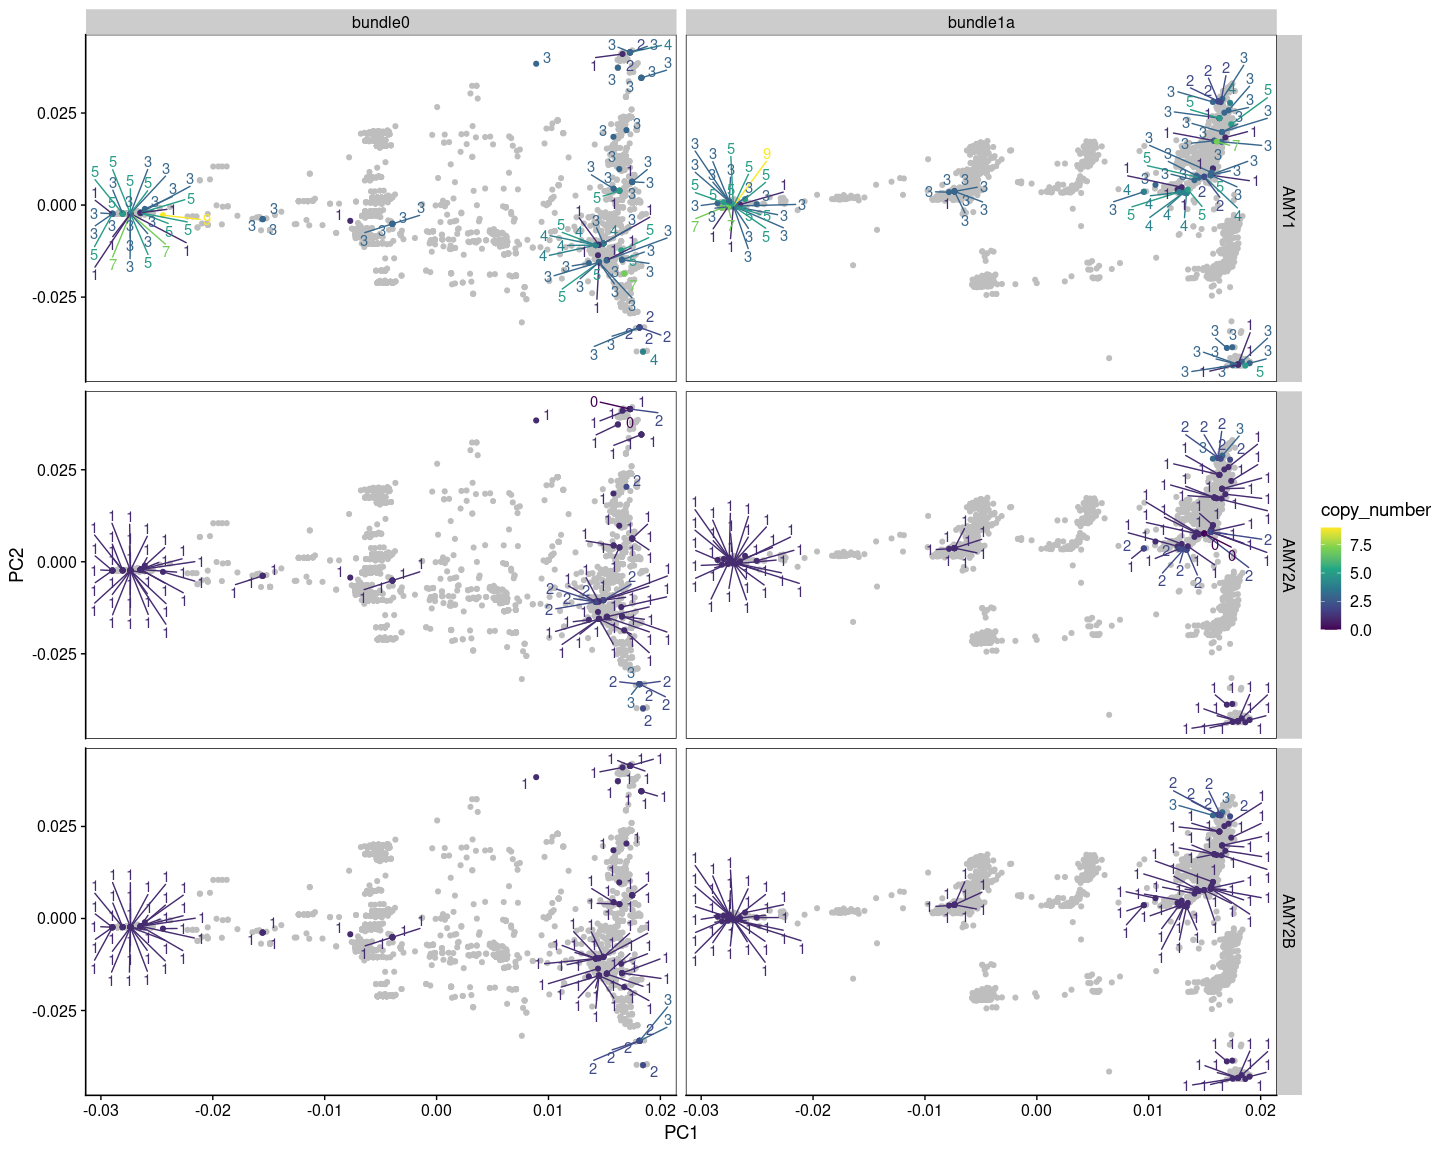
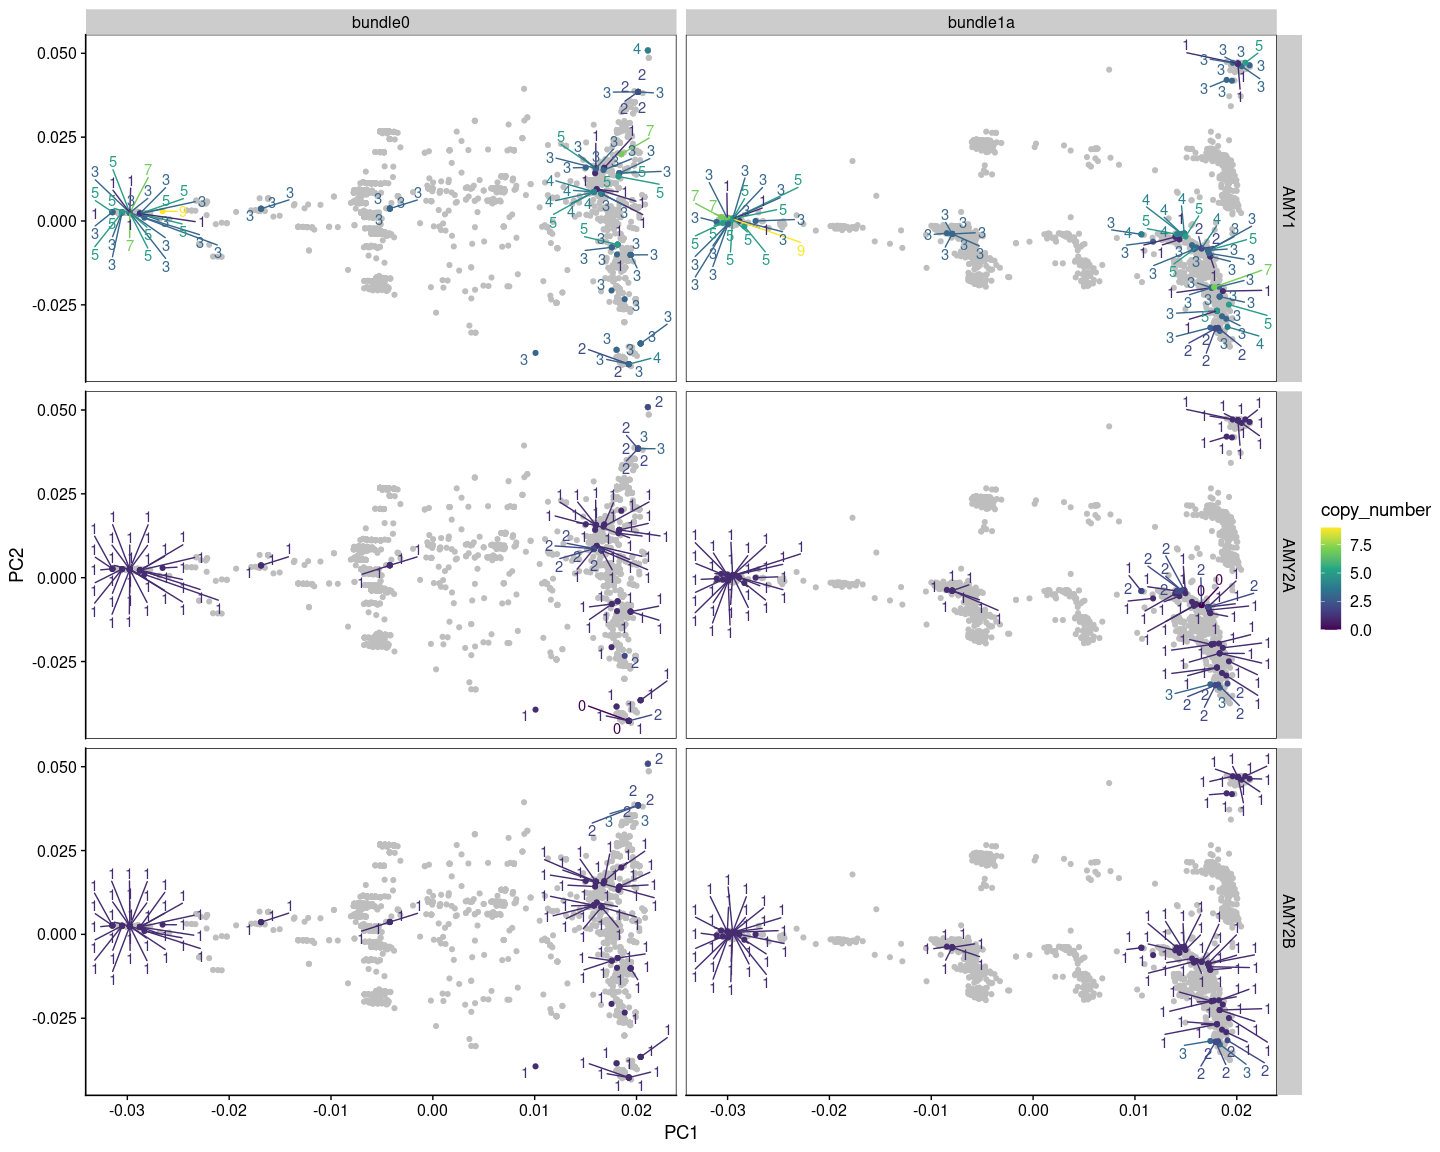
minor update on the PCA

diff --git a/HPRC_AMY_Sequences/pca/pca.md b/HPRC_AMY_Sequences/pca/pca.md
@@ -9,7 +9,7 @@ library(cowplot)
 ## Export bundle 0 and 1 sequences in fasta format for each haplotype individually
 
 ``` bash
-cd /global/scratch/users/nicolas931010/amylase_diversity_project/HPRC_AMY_Sequences/snp_calling
+cd /global/scratch/users/nicolas931010/amylase_diversity_project/HPRC_AMY_Sequences/pca
 #gunzip -c ../combined_y1_y2_analyses/input/combined_input/AMY1A_region_seq.fa.gz > AMY1A_region_seq.fa
 SEQ=../bundle_tree/AMY1A_region_seq.fa
 BUNDLE_LOC=../bundle_tree/bundle_locations_on_haplotypes_filtered.tsv
@@ -39,7 +39,7 @@ done
 ## Map sequences to human reference
 
 ``` bash
-cd /global/scratch/users/nicolas931010/amylase_diversity_project/HPRC_AMY_Sequences/snp_calling/
+cd /global/scratch/users/nicolas931010/amylase_diversity_project/HPRC_AMY_Sequences/pca/
 ## Come up with a human reference with chr1 only and rename the scaffold
 conda activate seqkit
 seqkit grep -p NC_000001.11 /global/scratch/users/nicolas931010/sv_detection/reference/GCF_000001405.40_GRCh38.p14_genomic.fasta | seqkit replace -p .+ -r "chr{nr}" > hg38_chr1.fasta
@@ -71,6 +71,15 @@ for VCF in `ls vcf/bundle?/*vcf.gz`;do
 bcftools index ${VCF}
 done
 
+## haplotypes that we decided to kill 
+rm vcf/*/HG002*
+rm vcf/*/chr1_hg19*
+rm vcf/*/HG02723#1*
+## clean some output from previous runs
+rm vcf/*/hprc*
+rm vcf/*/combined*
+rm vcf/*/hgdp*
+
 bcftools merge --merge snps --missing-to-ref --output-type z -o vcf/bundle0/hprc_bundle0.vcf.gz vcf/bundle0/*vcf.gz
 bcftools index vcf/bundle0/hprc_bundle0.vcf.gz 
 bcftools view --types snps --regions chr1:103456163-103571526 --min-alleles 2 --max-alleles 2 --output-type z vcf/bundle0/hprc_bundle0.vcf.gz -o vcf/bundle0/hprc_bundle0_filtered.vcf.gz 
@@ -85,22 +94,22 @@ bcftools index vcf/bundle1/hprc_bundle1a_filtered.vcf.gz
 ## Merge hprc vcfs with Joana’s
 
 ``` bash
-cp /global/scratch/users/joana_rocha/AMY/GWAS/hgdp.tgp.gwaspy.merged.chr1:103456163-103571526.merged.vcf vcf/bundle0/
-cp /global/scratch/users/joana_rocha/AMY/GWAS/hgdp.tgp.gwaspy.merged.chr1:103760698-103826698.merged.vcf vcf/bundle1/
-bgzip vcf/bundle0/hgdp.tgp.gwaspy.merged.chr1:103456163-103571526.merged.vcf
-bgzip vcf/bundle1/hgdp.tgp.gwaspy.merged.chr1:103760698-103826698.merged.vcf
-bcftools index vcf/bundle0/hgdp.tgp.gwaspy.merged.chr1:103456163-103571526.merged.vcf.gz
-bcftools index vcf/bundle1/hgdp.tgp.gwaspy.merged.chr1:103760698-103826698.merged.vcf.gz
-bcftools merge --merge snps --missing-to-ref --output-type z -o vcf/bundle0/combined_bundle0.vcf.gz  vcf/bundle0/hgdp.tgp.gwaspy.merged.chr1:103456163-103571526.merged.vcf.gz vcf/bundle0/hprc_bundle0_filtered.vcf.gz 
-bcftools merge --merge snps --missing-to-ref --output-type z -o vcf/bundle1/combined_bundle1a.vcf.gz  vcf/bundle1/hgdp.tgp.gwaspy.merged.chr1:103760698-103826698.merged.vcf.gz vcf/bundle1/hprc_bundle1a_filtered.vcf.gz 
+cp /global/scratch/users/joana_rocha/AMY/GWAS/hgdp.tgp.gwaspy.merged.b0_start_to_b0_end.merged.recode.vcf vcf/bundle0/
+cp /global/scratch/users/joana_rocha/AMY/GWAS/hgdp.tgp.gwaspy.merged.b1_start_to_b1a_end.merged.recode.vcf vcf/bundle1/
+bgzip vcf/bundle0/hgdp.tgp.gwaspy.merged.b0_start_to_b0_end.merged.recode.vcf
+bgzip vcf/bundle1/hgdp.tgp.gwaspy.merged.b1_start_to_b1a_end.merged.recode.vcf
+bcftools index vcf/bundle0/hgdp.tgp.gwaspy.merged.b0_start_to_b0_end.merged.recode.vcf.gz
+bcftools index vcf/bundle1/hgdp.tgp.gwaspy.merged.b1_start_to_b1a_end.merged.recode.vcf.gz
+bcftools merge --merge snps --missing-to-ref --output-type z -o vcf/bundle0/combined_bundle0.vcf.gz  vcf/bundle0/hgdp.tgp.gwaspy.merged.b0_start_to_b0_end.merged.recode.vcf.gz vcf/bundle0/hprc_bundle0_filtered.vcf.gz 
+bcftools merge --merge snps --missing-to-ref --output-type z -o vcf/bundle1/combined_bundle1a.vcf.gz  vcf/bundle1/hgdp.tgp.gwaspy.merged.b1_start_to_b1a_end.merged.recode.vcf.gz vcf/bundle1/hprc_bundle1a_filtered.vcf.gz 
 ```
 
 ## PCA
 
 ``` bash
 conda activate plink
-plink --vcf vcf/bundle0/hprc_bundle0_filtered.vcf.gz --pca --maf 0.05 --double-id --out plink/combined_bundle0 
-plink --vcf vcf/bundle1/hprc_bundle1a_filtered.vcf.gz --pca --maf 0.05 --double-id --out plink/combined_bundle1a
+#plink --vcf vcf/bundle0/hprc_bundle0_filtered.vcf.gz --pca --maf 0.05 --double-id --out plink/combined_bundle0 
+#plink --vcf vcf/bundle1/hprc_bundle1a_filtered.vcf.gz --pca --maf 0.05 --double-id --out plink/combined_bundle1a
 mkdir -p plink
 plink --vcf vcf/bundle0/combined_bundle0.vcf.gz --pca --maf 0.05 --double-id --out plink/combined_bundle0 
 plink --vcf vcf/bundle1/combined_bundle1a.vcf.gz --pca --maf 0.05 --double-id --out plink/combined_bundle1a
@@ -154,12 +163,22 @@ for(b in unique(pca_haploid$bundle)){
       guides(fill = guide_legend(g),
              size = guide_legend(g)) +
       theme_cowplot() +
-      theme(panel.border = element_rect(color="black"),
+      theme(panel.border = element_rect(color="black", size=1),
             legend.position = c(0.05, 0.85),
-            legend.title = element_blank())
+            legend.title = element_blank(),
+            axis.line = element_blank())
     assign(str_c("p_", g, "_", b), p)
   }
 }
+```
+
+    ## Warning: The `size` argument of `element_rect()` is deprecated as of ggplot2 3.4.0.
+    ## ℹ Please use the `linewidth` argument instead.
+    ## This warning is displayed once every 8 hours.
+    ## Call `lifecycle::last_lifecycle_warnings()` to see where this warning was
+    ## generated.
+
+``` r
 set.seed(42)
 pca_bundle0 <- plot_grid(p_AMY1_bundle0, p_AMY2A_bundle0, p_AMY2B_bundle0, ncol = 1)
 pca_bundle1a <- plot_grid(p_AMY1_bundle1a, p_AMY2A_bundle1a, p_AMY2B_bundle1a, ncol = 1)
@@ -177,4 +196,79 @@ pca_bundle1a
 ``` r
 ggsave("figures/pca_bundle0.pdf", pca_bundle0, width = 5, height = 12)
 ggsave("figures/pca_bundle1a.pdf", pca_bundle1a, width = 5, height = 12)
+```
+
+``` r
+metadata <- read_tsv("/global/scratch/users/joana_rocha/AMY/GWAS/CN_metadata_filtered.tsv")
+for (bundle_id in c("bundle0", "bundle1a")){
+  pca_diploid_final <- pca_diploid %>%
+    filter(bundle==bundle_id) %>%
+    distinct(id, PC1, PC2) %>%
+    left_join(metadata, by=c("id"="ID"))
+  ## AMY2A expansion
+  dup_2a <- pca_diploid_final %>%
+    filter(!is.na(AMY2A)) %>%
+    mutate(`AMY2A copy number`=case_when(AMY2A<=2 ~ "0-2",
+                                    AMY2A<=4 ~ "3-4",
+                                    AMY2A<=7 ~ "5-7")) %>%
+    arrange(-AMY2A) %>%
+    ggplot(aes(x=PC1, y=PC2)) +
+    geom_point(aes(fill=`AMY2A copy number`, size=`AMY2A copy number`, alpha=`AMY2A copy number`), shape=21) +
+    scale_size_manual(values = c(0.02, 2, 6)) + 
+    scale_fill_manual(values = c(MetBrewer::met.brewer("Kandinsky", 3, "discrete", -1))) +
+    scale_alpha_manual(values = c(0.5, 1, 1)) +
+    theme_bw() +
+    theme(panel.grid = element_blank(),
+          legend.position = "top") +
+    ggtitle("AMY2A duplication")
+  pca_diploid_final %>%
+    count(AMY2A)
+  ## AMY2A loss
+  loss_2a <- pca_diploid_final %>%
+    filter(!is.na(AMY2A)) %>%
+    mutate(`AMY2A copy number`=case_when(AMY2A==0 ~ "0",
+                                    AMY2A==1 ~ "1",
+                                    AMY2A>=2 ~ "2-7")) %>%
+    arrange(AMY2A) %>%
+    ggplot(aes(x=PC1, y=PC2)) +
+    geom_point(aes(fill=`AMY2A copy number`, size=`AMY2A copy number`, alpha=`AMY2A copy number`), shape=21) +
+    scale_size_manual(values = c(6, 2, 0.02)) + 
+    scale_alpha_manual(values = c(1, 1, 0.5)) +
+    scale_fill_manual(values = c(MetBrewer::met.brewer("Kandinsky", 3, "discrete"))) +
+    theme_bw() +
+    theme(panel.grid = element_blank(),
+          legend.position = "top") +
+    ggtitle("AMY2A loss")
+  pca_diploid_final %>%
+    count(AMY2A)
+  ## AMY 2B
+  dup_2b <- pca_diploid_final %>%
+    filter(!is.na(AMY2B)) %>%
+    mutate(`AMY2B copy number`=case_when(AMY2B==2 ~ "2",
+                                    AMY2B<=4 ~ "3-4",
+                                    AMY2B<=7 ~ "5-7")) %>%
+    arrange(-AMY2B) %>%
+    ggplot(aes(x=PC1, y=PC2)) +
+    geom_point(aes(fill=`AMY2B copy number`, size=`AMY2B copy number`, alpha=`AMY2B copy number`), shape=21) +
+    scale_size_manual(values = c(0.02, 2, 6)) + 
+    scale_alpha_manual(values = c(0.5, 1, 1)) +
+    scale_fill_manual(values = c(MetBrewer::met.brewer("Kandinsky", 3, "discrete", -1))) +
+    theme_bw() +
+    theme(panel.grid = element_blank(),
+          legend.position = "top") +
+    ggtitle("AMY2B duplication")
+  pca_diploid_final %>%
+    count(AMY2B)
+  plot_tmp <- plot_grid(dup_2a, loss_2a, dup_2b, ncol = 1)
+  assign(str_c("supp_pca_", bundle_id), plot_tmp)
+}
+
+supp_pca <- plot_grid(supp_pca_bundle0, supp_pca_bundle1a, nrow = 1, labels = c("A", "B"), scale = 0.95)
+supp_pca
+```
+
+![](pca_files/figure-gfm/unnamed-chunk-10-1.png)<!-- -->
+
+``` r
+ggsave(filename = "figures/supp_pca.pdf", plot = supp_pca, width = 10, height = 15, units = "in")
 ```
